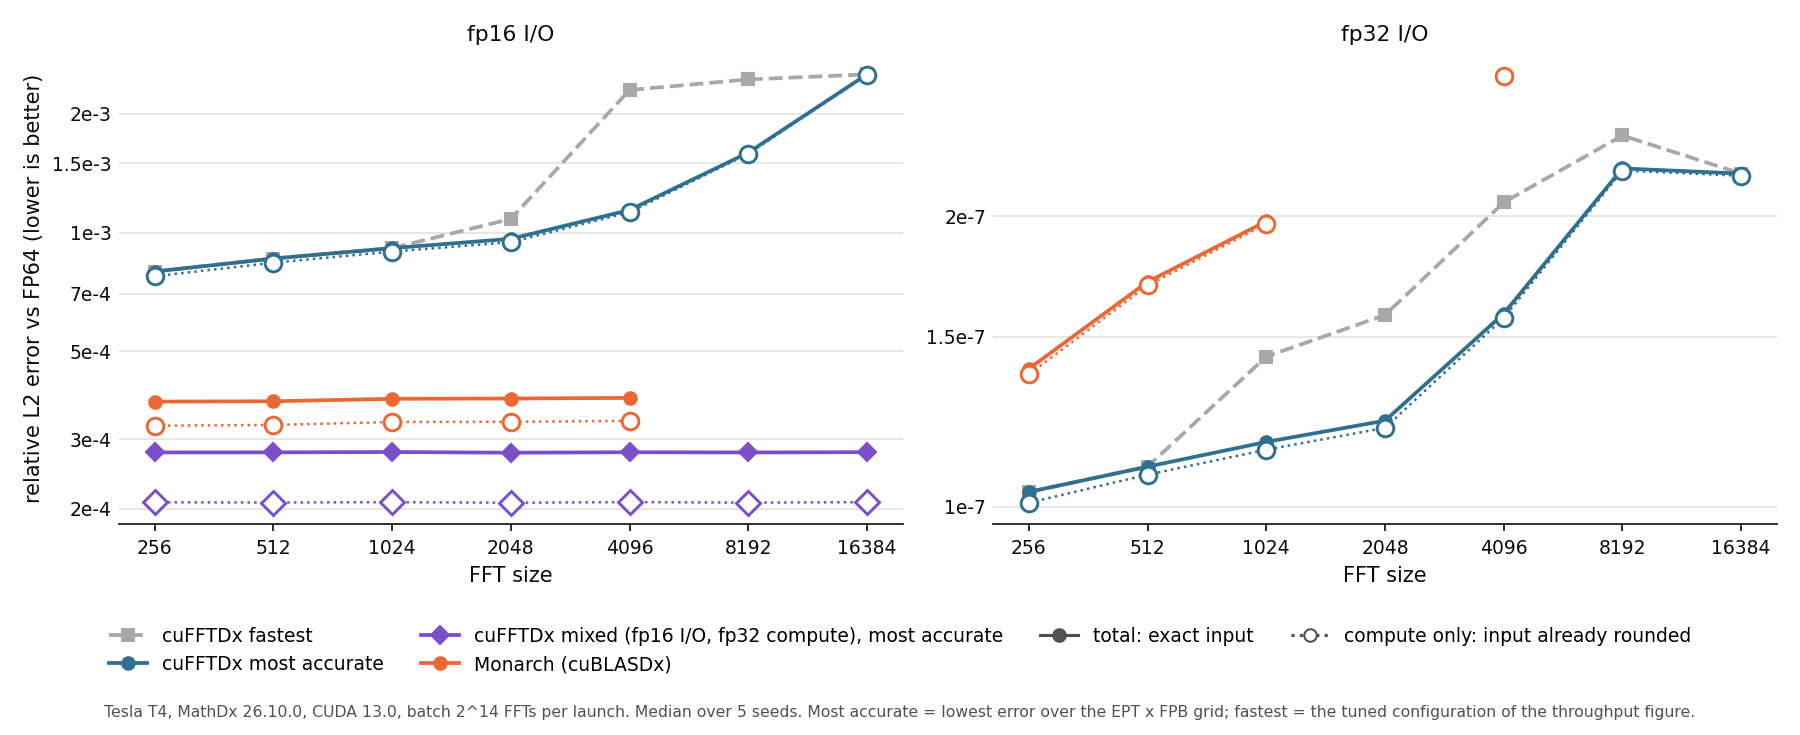
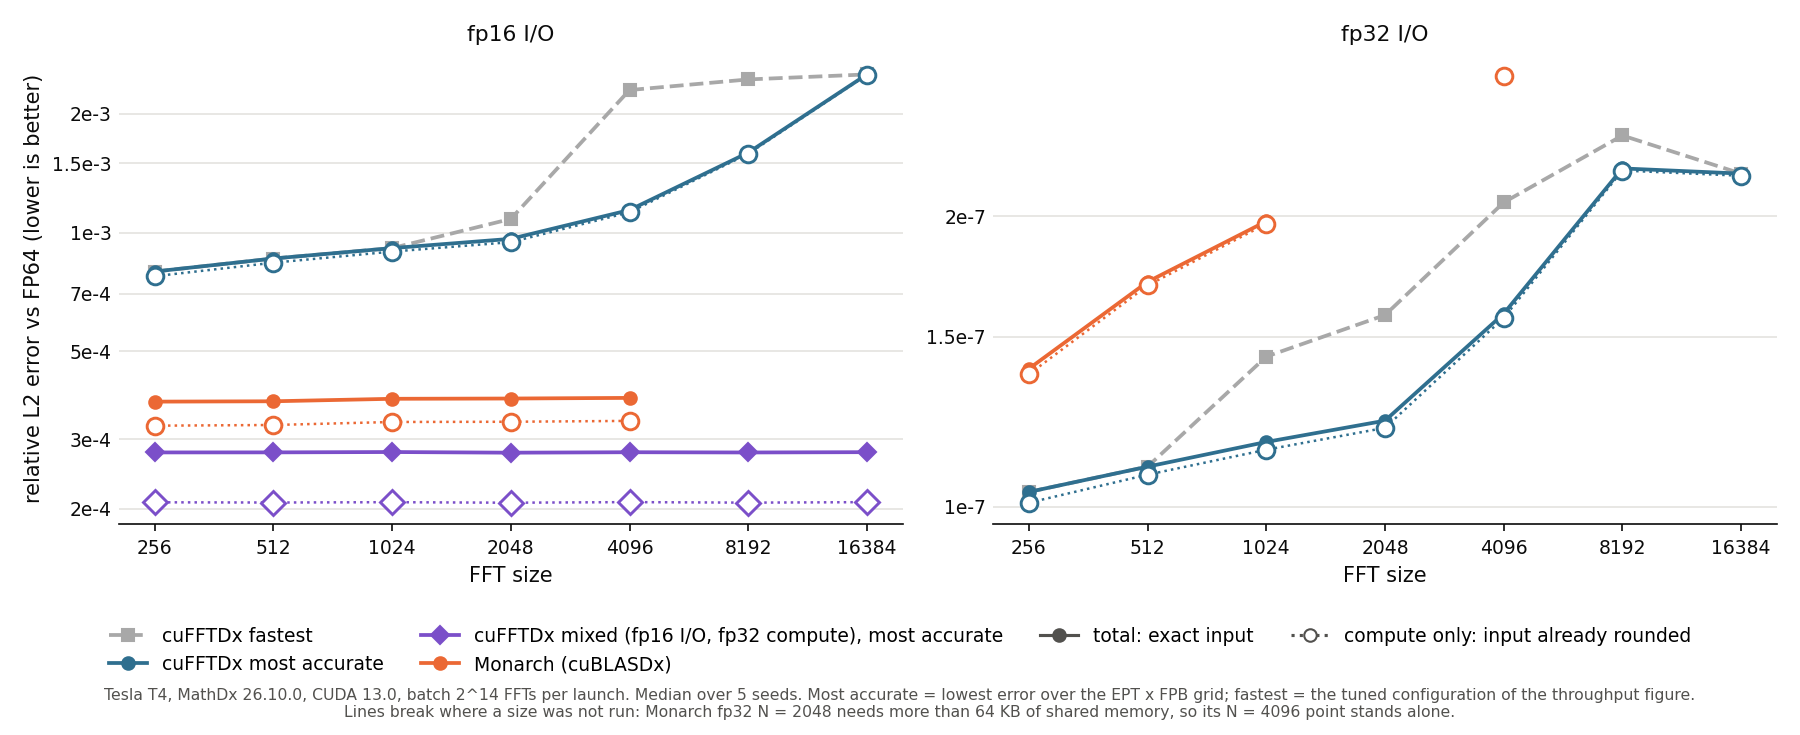
explain the lone monarch fp32 n=4096 point in the error figure note, say plain layouts in mcp readme

Changed region(s): [[0.0622, 0.9279, 0.9333, 0.9878]]

diff --git a/scripts/final.py b/scripts/final.py
@@ -291,7 +291,8 @@ def figures(sel, reps, later, err, out):
     filled = matplotlib.lines.Line2D([], [], color=plot.MUTED, marker="o", linestyle="-")
     legend_below(fig, axes, [(filled, "total: exact input"), (hollow, "compute only: input already rounded")])
     fig.text(0.5, 0.02, setup + " Median over 5 seeds. Most accurate = lowest error over the EPT x FPB grid; "
-             "fastest = the tuned configuration of the throughput figure.",
+             "fastest = the tuned configuration of the throughput figure.\nLines break where a size was not run: Monarch fp32 "
+             "N = 2048 needs more than 64 KB of shared memory, so its N = 4096 point stands alone.",
              ha="center", va="bottom", fontsize=7.5, color=plot.MUTED)
     fig.tight_layout(rect=(0, 0.17, 1, 1))
     fig.savefig(os.path.join(out, "error_decomposition.png"), dpi=150)

diff --git a/mcp/README.md b/mcp/README.md
@@ -38,5 +38,5 @@ Checks:
   in-process MCP session.
 - `mcp/smoke_client.py` runs on the GPU machine and launches the server over stdio. It calls every tool on
   the clean repo, then runs `diagnose` on three copies with one injected bug each: a compile error, a
-  conjugated twiddle, and fp16 GEMMs moved back to cuBLASDx's default layouts. The last one is the mistake
+  conjugated twiddle, and complex fp16 GEMMs moved back to cuBLASDx's plain layouts. The last one is the mistake
   in docs/agent_log.md: it passes accuracy but has no HMMA.
